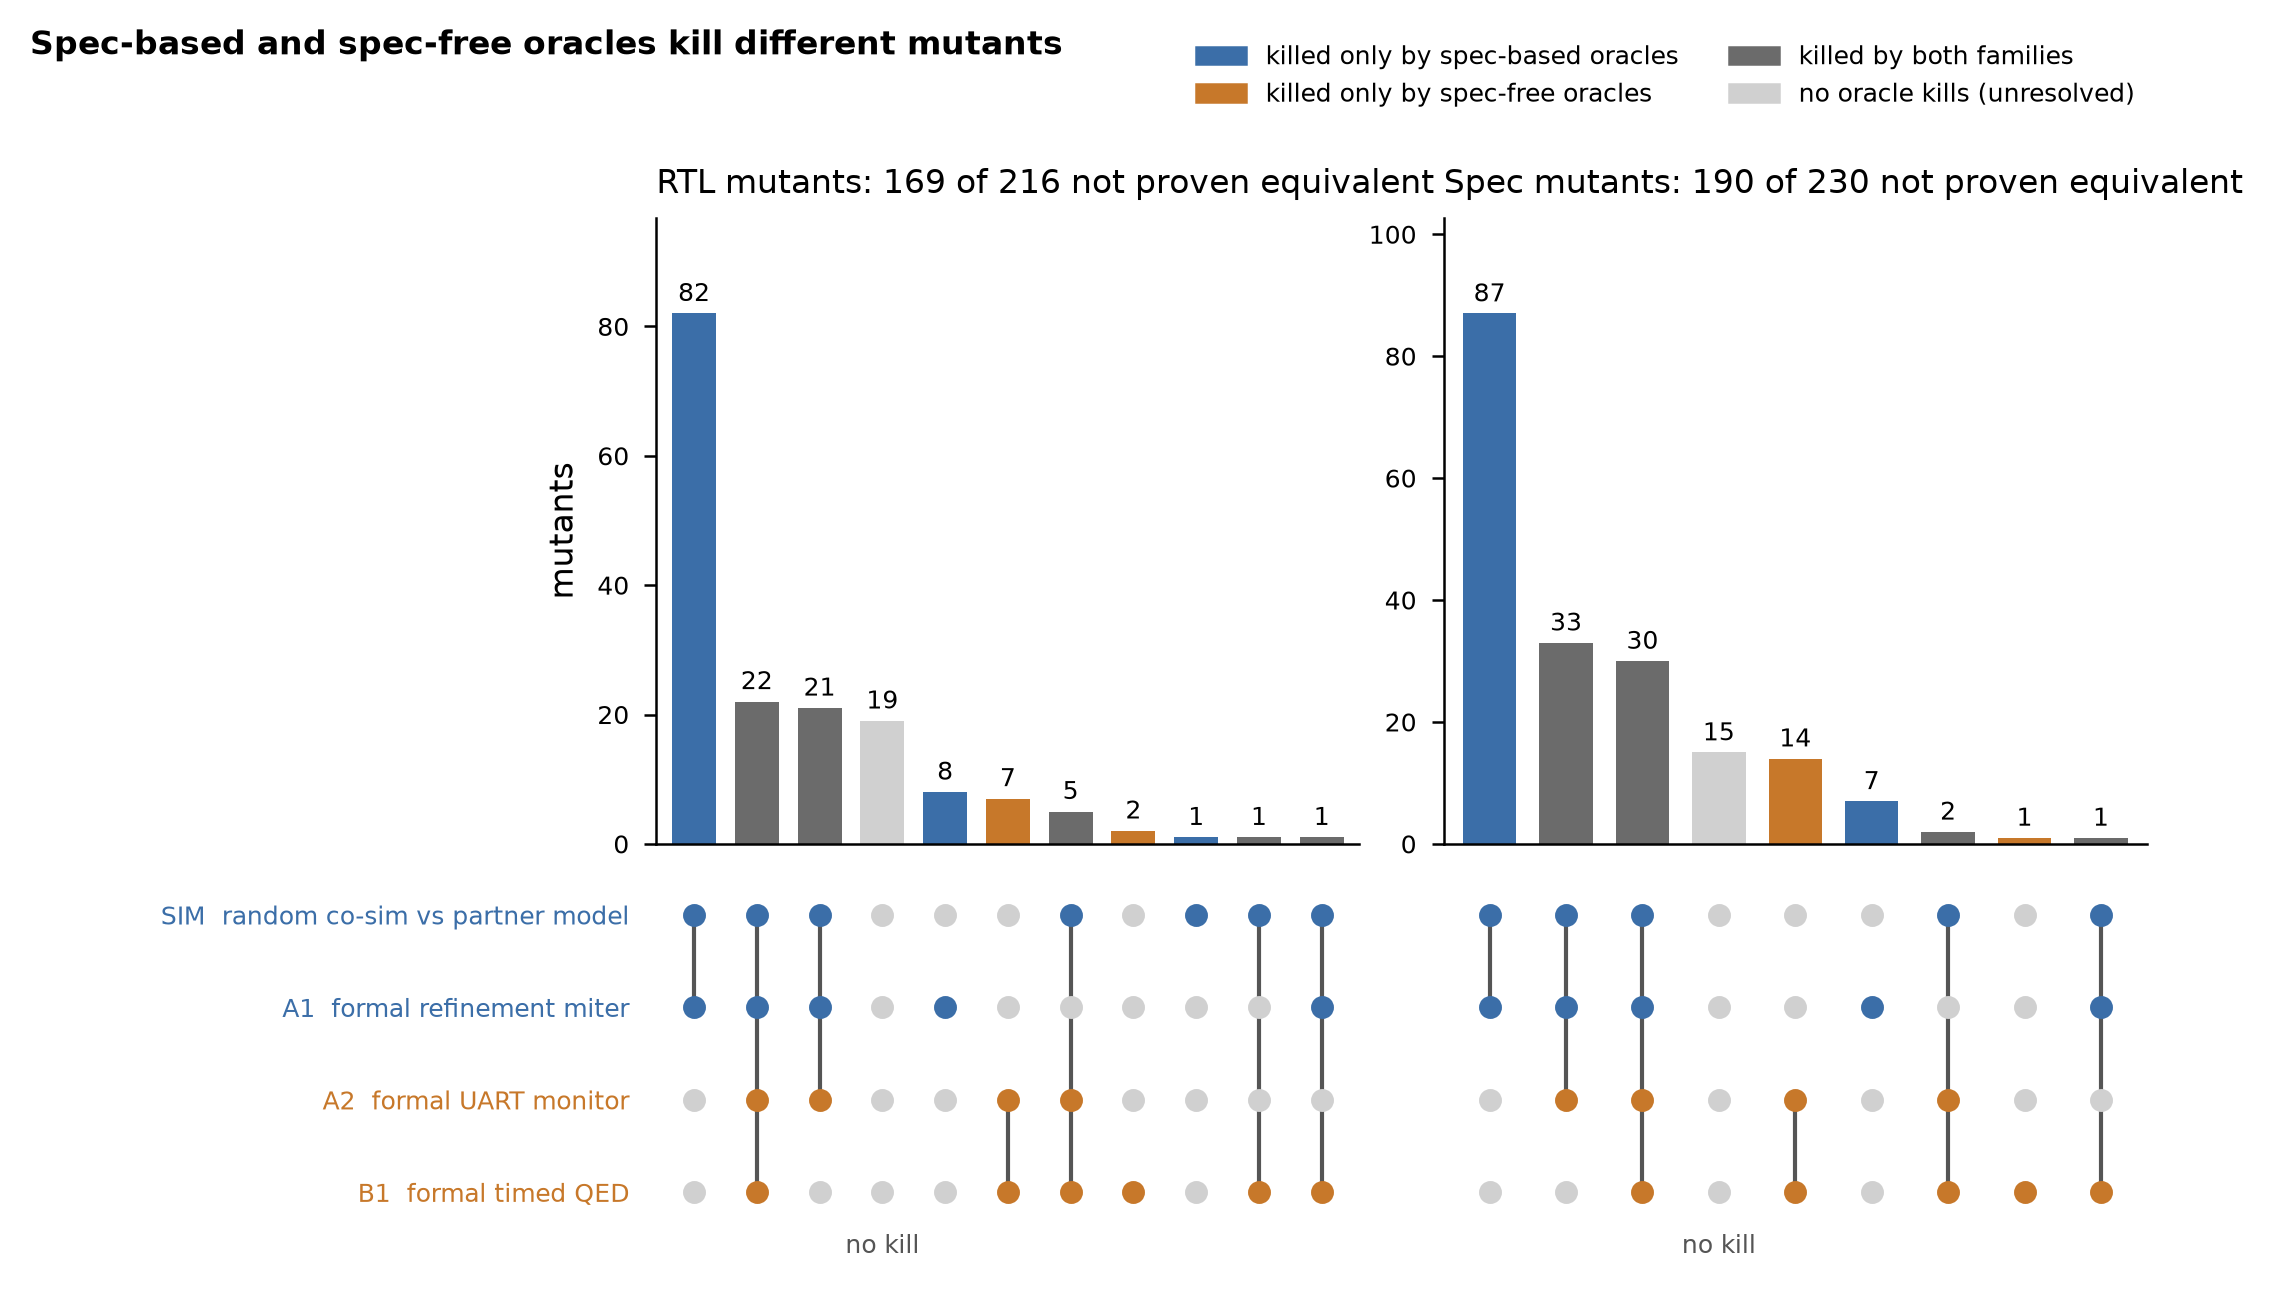
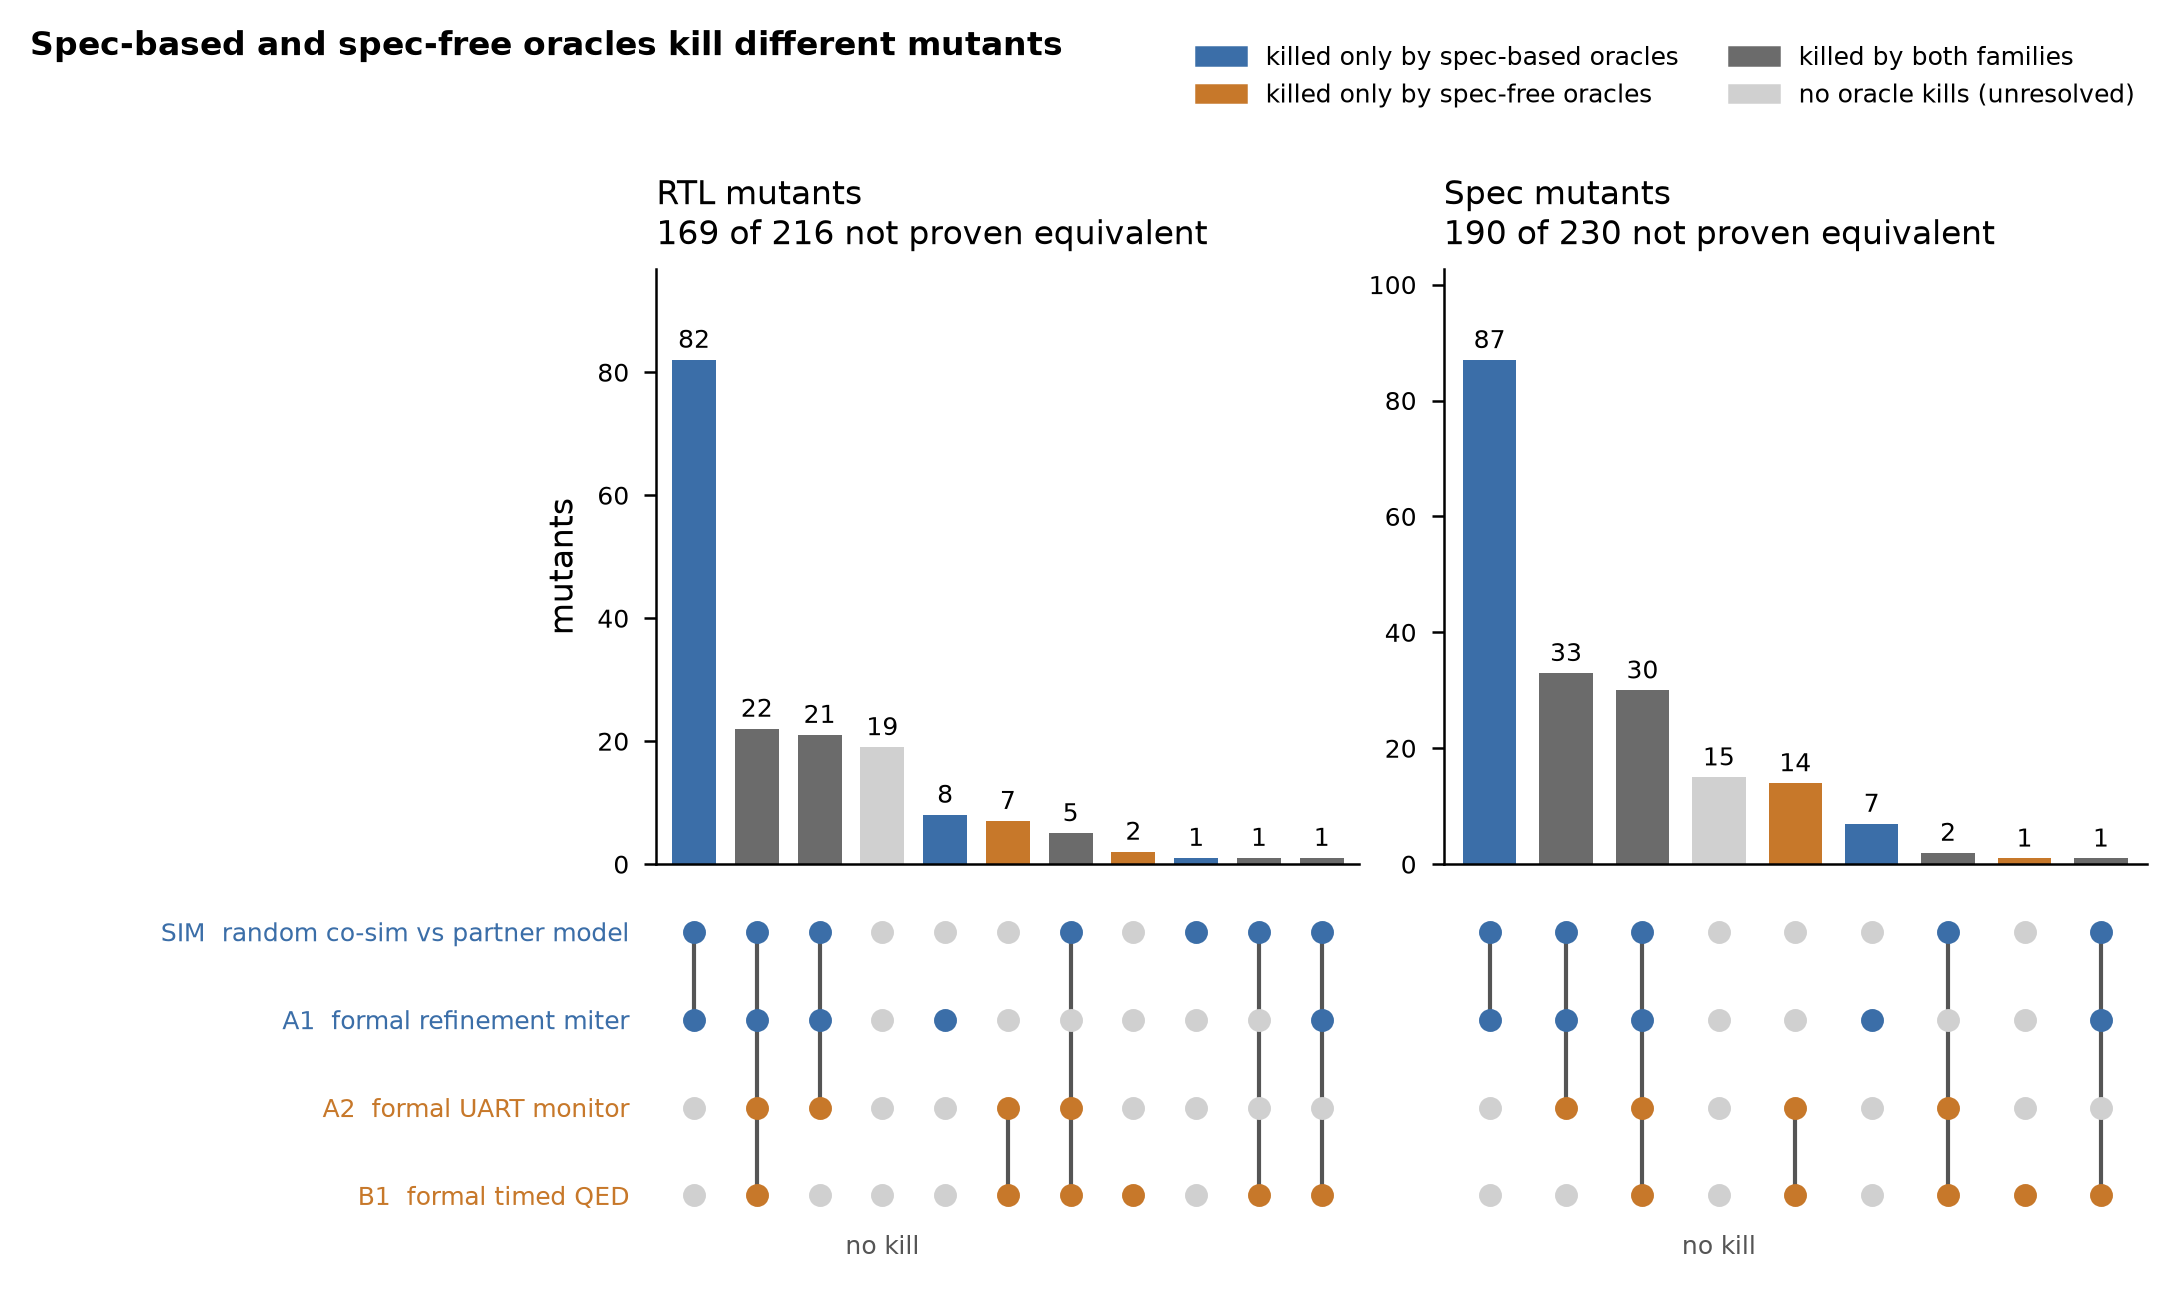
kill-set figure: two-line panel titles

diff --git a/formal/mutation/plot_kill_sets.py b/formal/mutation/plot_kill_sets.py
@@ -34,7 +34,7 @@ for col, (target, title) in enumerate([("rtl", "RTL mutants"), ("spec", "Spec mu
         c = GREY if not k else (COL[fam.pop()] if len(fam) == 1 else "#6b6b6b")
         ax.bar(x, n, color=c, width=0.7)
         ax.text(x, n + 1, str(n), ha="center", va="bottom", fontsize=6)
-    ax.set_title(f"{title}: {len(live)} of {n_all} not proven equivalent", loc="left", fontsize=8)
+    ax.set_title(f"{title}\n{len(live)} of {n_all} not proven equivalent", loc="left", fontsize=8)
     ax.spines[["top", "right"]].set_visible(False)
     ax.set_ylim(0, max(n for _, n in order) * 1.18)
     if col == 0:
@@ -69,6 +69,6 @@ h = [matplotlib.patches.Patch(color=COL["spec-based"], label="killed only by spe
      matplotlib.patches.Patch(color="#6b6b6b", label="killed by both families"),
      matplotlib.patches.Patch(color=GREY, label="no oracle kills (unresolved)")]
 fig.legend(handles=h, loc="upper right", bbox_to_anchor=(0.995, 0.995), ncol=2, fontsize=6, frameon=False)
-fig.subplots_adjust(left=0.30, right=0.99, top=0.84, bottom=0.03)
+fig.subplots_adjust(left=0.30, right=0.99, top=0.80, bottom=0.03)
 fig.savefig(out, dpi=300)
 print("saved", out)
